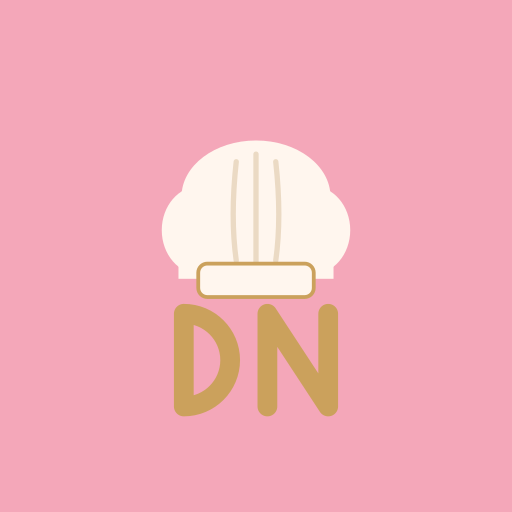
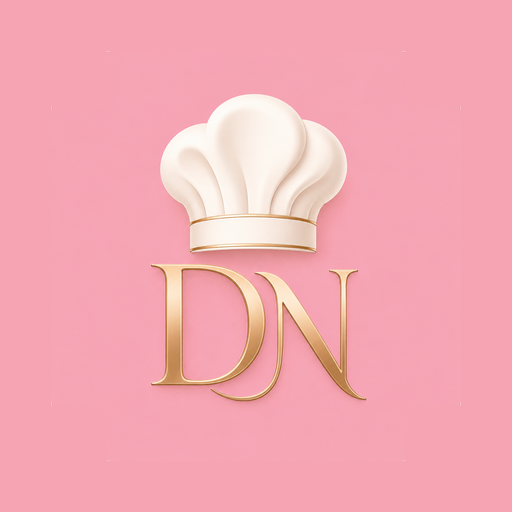
feat: ícone final do app (arte da marca DN + chapéu de chef)
Substitui o ícone desenhado pela arte oficial: chapéu de confeiteira e
"DN" dourado serifado sobre o rosa. Gera todos os tamanhos (192/512,
maskable com margem segura, apple-touch, favicon PNG) full-bleed.
Fonte em brand/ (fora do bundle).

Changed region(s): [[0.2812, 0.1562, 0.7188, 0.8125]]

diff --git a/index.html b/index.html
@@ -2,7 +2,7 @@
 <html lang="pt-BR">
   <head>
     <meta charset="UTF-8" />
-    <link rel="icon" type="image/svg+xml" href="/favicon.svg" />
+    <link rel="icon" type="image/png" href="/favicon.png" />
     <link rel="apple-touch-icon" href="/apple-touch-icon.png" />
     <meta name="viewport" content="width=device-width, initial-scale=1.0, maximum-scale=1.0, user-scalable=no" />
     <meta name="theme-color" content="#F4A7B9" />

diff --git a/vite.config.ts b/vite.config.ts
@@ -9,7 +9,7 @@ export default defineConfig({
     tailwindcss(),
     VitePWA({
       registerType: 'prompt',
-      includeAssets: ['favicon.svg', 'apple-touch-icon.png'],
+      includeAssets: ['favicon.png', 'apple-touch-icon.png'],
       manifest: {
         name: 'Doce Negócio',
         short_name: 'Doce Negócio',
